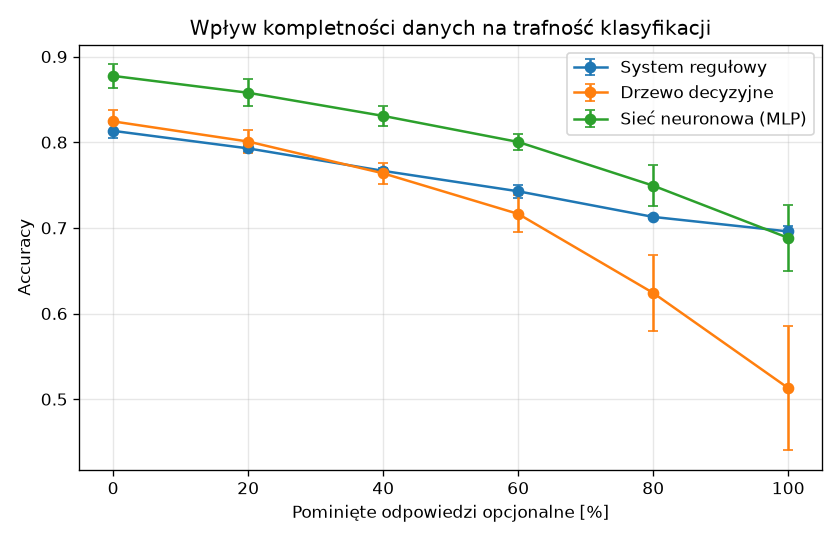
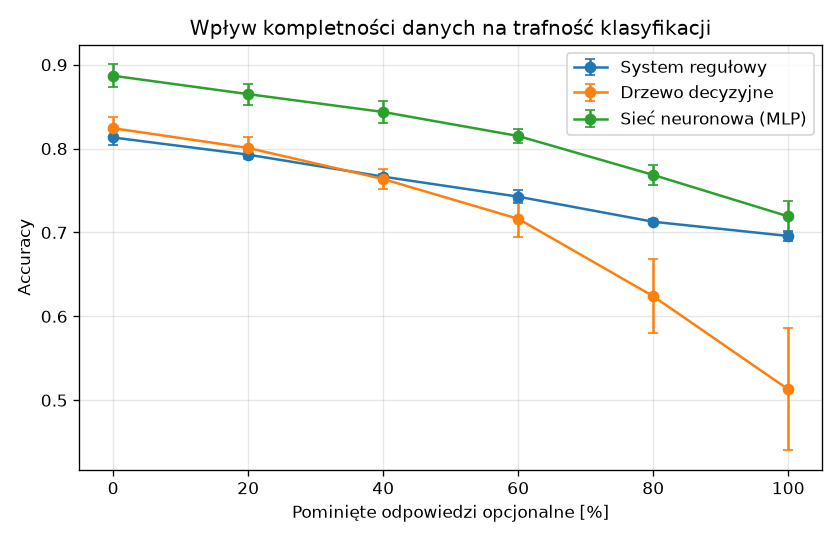
Zmieniono sieć neuronową na dwie warstwy (64, 32) (#26)

diff --git a/app/ml/models.py b/app/ml/models.py
@@ -29,18 +29,18 @@ def build_decision_tree(seed: int = 42) -> Pipeline:
 
 
 def build_mlp(seed: int = 42) -> Pipeline:
-    """Sieć neuronowa (perceptron wielowarstwowy) z jedną warstwą ukrytą 32 neuronów.
+    """Sieć neuronowa (perceptron wielowarstwowy) z dwiema warstwami ukrytymi: 64 i 32 neurony.
 
     StandardScaler sprowadza cechy do podobnej skali, bez czego sieć uczy się źle.
     early_stopping przerywa uczenie, gdy wynik na części walidacyjnej przestaje rosnąć.
-    Rozmiar warstw dobrano walidacją krzyżową (experiments/tuning.py): po dodaniu wskaźnika
-    siły wcześniejsza sieć (32, 16) wypadła poza regułą jednego odchylenia.
+    Rozmiar warstw to najlepszy wynik walidacji krzyżowej (experiments/tuning.py). Reguły
+    jednego odchylenia nie stosujemy tu, bo mniejsza sieć nie staje się przez to czytelna.
     """
     return Pipeline([
         ("imputer", missing_values_imputer()),
         ("scaler", StandardScaler()),
         ("model", MLPClassifier(
-            hidden_layer_sizes=(32,),
+            hidden_layer_sizes=(64, 32),
             max_iter=1000,
             early_stopping=True,
             random_state=seed,

diff --git a/docs/EXPERIMENTS.md b/docs/EXPERIMENTS.md
@@ -43,10 +43,13 @@ mlflow ui                      # przeglądanie przebiegów: http://127.0.0.1:500
 - Miara: F1 makro (średnia ± odchylenie z 5 części).
 - Siatki: drzewo – głębokość {3, 4, 6, 8, 10, bez limitu} × min. próbek w liściu {1, 5, 20, 50};
   sieć – warstwy ukryte {(16), (32), (32, 16), (64, 32)} × regularyzacja L2 `alpha` {0,0001; 0,001; 0,01}.
-- Wybór według **reguły jednego odchylenia standardowego**: spośród ustawień, których wynik jest
-  gorszy od najlepszego o mniej niż jego odchylenie standardowe, wybiera się najprostsze. Różnica
-  mniejsza niż odchylenie mieści się w losowej zmienności, a prostszy model łatwiej zinterpretować
-  i trudniej go przeuczyć.
+- Wybór drzewa według **reguły jednego odchylenia standardowego**: spośród ustawień, których wynik
+  jest gorszy od najlepszego o mniej niż jego odchylenie standardowe, wybiera się najprostsze.
+  Różnica mniejsza niż odchylenie mieści się w losowej zmienności, a płytsze drzewo można odczytać
+  jako zestaw reguł.
+- Wybór sieci według **najlepszego wyniku**: mniejsza sieć nie staje się przez to czytelna (wagi sieci
+  nie dają się interpretować przy żadnym rozmiarze), a koszt większej sieci jest pomijalny
+  (uczenie ok. 0,2 s, klasyfikacja poniżej 1 ms), więc reguła jednego odchylenia nie ma tu uzasadnienia.
 
 Wyniki (`docs/experiments/tuning.csv`, pięć najlepszych ustawień każdego modelu i poprzednie ustawienie sieci):
 
@@ -59,22 +62,29 @@ Wyniki (`docs/experiments/tuning.csv`, pięć najlepszych ustawień każdego mod
 | Drzewo decyzyjne | **głębokość 6, min. 5 w liściu**      | **0,807 ± 0,007** |
 | Sieć neuronowa   | (64, 32), alpha 0,01                  | 0,861 ± 0,014   |
 | Sieć neuronowa   | (64, 32), alpha 0,001                 | 0,861 ± 0,014   |
-| Sieć neuronowa   | (64, 32), alpha 0,0001                | 0,861 ± 0,013   |
-| Sieć neuronowa   | **(32), alpha 0,0001**                | **0,853 ± 0,009** |
+| Sieć neuronowa   | **(64, 32), alpha 0,0001**            | **0,861 ± 0,013** |
+| Sieć neuronowa   | (32), alpha 0,0001                    | 0,853 ± 0,009   |
 | Sieć neuronowa   | (32), alpha 0,001                     | 0,853 ± 0,009   |
 | …                |                                       |                 |
-| Sieć neuronowa   | (32, 16), alpha 0,0001 (poprzednio)   | 0,845 ± 0,035   |
+| Sieć neuronowa   | (32, 16), alpha 0,0001 (pierwsza wersja) | 0,845 ± 0,035 |
 
 **Wnioski:**
 
 1. **Sieć neuronowa:** w pierwszej wersji (bez wskaźnika siły) najlepsza była sieć (32, 16)
-   i tę stosowano. Po dodaniu wskaźnika siły sieć (32, 16) spadła na 12. miejsce (0,845) i wypadła
-   poza granicą jednego odchylenia (próg 0,861 − 0,014 = 0,847). Duże odchylenie (0,035) wynika
-   z jednej z pięciu części walidacji, w której sieć nauczyła się wyraźnie gorzej, czyli z niestabilności
-   uczenia. Zgodnie z regułą wybrano najprostszą sieć w granicy: **jedna warstwa 32 neuronów**.
-   Sieć (64, 32) ma o ok. 0,008 wyższy wynik, ale ma ok. 5 razy więcej wag (3267 wobec 643), a różnica mieści się
-   w odchyleniu. Na zbiorach testowych eksperymentu 1 wszystkie trzy warianty dały zbliżone F1
-   makro: (32) 0,856, (32, 16) 0,860, (64, 32) 0,866 (odchylenia ok. 0,01).
+   i tę stosowano. Po dodaniu wskaźnika siły najlepsze są sieci (64, 32), a (32, 16) spadła na
+   12. miejsce (0,845) z dużym odchyleniem (0,035): w jednej z pięciu części walidacji nauczyła się
+   wyraźnie gorzej, czyli jej uczenie jest niestabilne. Wybrano **(64, 32)**. Siła regularyzacji
+   `alpha` nie ma wpływu (0,8608–0,8614), więc zostaje domyślna wartość 0,0001.
+   Wybór potwierdzają wyniki spoza walidacji (F1 makro, eksperyment 1 i model z `app/ml/train.py`):
+
+   | Sieć      | Średnia z 5 zbiorów testowych | Model wdrażany (`seed = 42`) | Ten model przy 5 pustych odpowiedziach |
+   |-----------|-------------------------------|------------------------------|----------------------------------------|
+   | (32)      | 0,848 ± 0,013                 | 0,829                        | 0,64                                   |
+   | (32, 16)  | 0,855 ± 0,007                 | 0,855                        | 0,69                                   |
+   | (64, 32)  | 0,859 ± 0,009                 | 0,871                        | 0,72                                   |
+
+   Przejściowo stosowano sieć (32) wybraną regułą jednego odchylenia; zrezygnowano z tego, bo
+   prostota sieci nie daje korzyści, a mniejsza sieć wypadała gorzej, zwłaszcza przy brakach danych.
 2. **Drzewo decyzyjne:** najlepsze jest drzewo o głębokości 10 (0,815), ale drzewo o głębokości 6
    mieści się w granicy jednego odchylenia (próg 0,804), a ma do 16 razy mniej liści, więc jego
    reguły da się przeczytać. Pozostaje głębokość 6 i min. 5 próbek w liściu.
@@ -89,13 +99,13 @@ Dane testowe z 20% pominiętych odpowiedzi opcjonalnych (`docs/experiments/compa
 |--------------------|-----------------|-----------------|--------------|---------------------------|
 | System regułowy    | 0,800 ± 0,004   | 0,801 ± 0,005   | —            | 0,02 ms                   |
 | Drzewo decyzyjne   | 0,805 ± 0,009   | 0,804 ± 0,010   | 0,01 s       | 0,43 ms                   |
-| Sieć neuronowa     | 0,857 ± 0,012   | 0,856 ± 0,012   | 0,13 s       | 0,52 ms                   |
+| Sieć neuronowa     | 0,867 ± 0,009   | 0,866 ± 0,008   | 0,17 s       | 0,52 ms                   |
 
 ![Macierze pomyłek](experiments/confusion_matrices.png)
 
 **Obserwacje:**
 
-1. Sieć neuronowa osiąga najwyższą trafność, o ok. 6 punktów procentowych wyższą od systemu
+1. Sieć neuronowa osiąga najwyższą trafność, o ok. 6–7 punktów procentowych wyższą od systemu
    regułowego i od drzewa decyzyjnego. Obie różnice są istotne statystycznie
    (zob. [test McNemara](#istotność-statystyczna-różnic-między-klasyfikatorami)).
 2. Pomyłki o dwa poziomy są skrajnie rzadkie: na ok. 2200 osób początkujących (5 powtórzeń) system
@@ -103,14 +113,13 @@ Dane testowe z 20% pominiętych odpowiedzi opcjonalnych (`docs/experiments/compa
    (zaawansowany uznany za początkującego) dotyczy 0,05–0,2% zaawansowanych. Pozostałe błędy dotyczą
    poziomów sąsiednich. Ma to znaczenie dla bezpieczeństwa: osoba początkująca praktycznie nie
    dostanie planu dla zaawansowanych.
-3. Najtrudniejszy do rozpoznania jest poziom średni (71–76% poprawnych), bo graniczy z oboma
+3. Najtrudniejszy do rozpoznania jest poziom średni (71–79% poprawnych), bo graniczy z oboma
    pozostałymi.
 4. Czas klasyfikacji jednej osoby jest poniżej 1 ms dla wszystkich metod, więc wybór
    klasyfikatora nie wpływa na czas odpowiedzi API.
 5. W porównaniu z pierwszą wersją (bez wskaźnika siły) trafność systemu regułowego wzrosła
-   (0,792 → 0,800), bo reguły od razu korzystają z nowego wskaźnika. Sieć ma wynik nieco niższy
-   (0,866 → 0,857) z powodu zmiany architektury na mniejszą (zob. dobór hiperparametrów); różnica
-   mieści się w odchyleniu.
+   (0,792 → 0,800), bo reguły od razu korzystają z nowego wskaźnika. Sieć ma wynik podobny
+   (0,866 → 0,867), przy nowej architekturze (64, 32).
 
 ## Eksperyment 2: wpływ kompletności danych
 
@@ -121,12 +130,12 @@ i poziom aktywności, a u osób trenujących z ciężarami także wskaźnik sił
 
 | Pominięte odpowiedzi | System regułowy | Drzewo decyzyjne | Sieć neuronowa  |
 |----------------------|-----------------|------------------|-----------------|
-| 0%                   | 0,813 ± 0,009   | 0,824 ± 0,013    | 0,877 ± 0,014   |
-| 20%                  | 0,793 ± 0,004   | 0,801 ± 0,013    | 0,858 ± 0,016   |
-| 40%                  | 0,767 ± 0,004   | 0,764 ± 0,012    | 0,831 ± 0,012   |
-| 60%                  | 0,743 ± 0,008   | 0,716 ± 0,022    | 0,800 ± 0,010   |
-| 80%                  | 0,713 ± 0,003   | 0,624 ± 0,044    | 0,749 ± 0,024   |
-| 100%                 | 0,696 ± 0,006   | 0,513 ± 0,073    | 0,688 ± 0,039   |
+| 0%                   | 0,813 ± 0,009   | 0,824 ± 0,013    | 0,887 ± 0,014   |
+| 20%                  | 0,793 ± 0,004   | 0,801 ± 0,013    | 0,865 ± 0,013   |
+| 40%                  | 0,767 ± 0,004   | 0,764 ± 0,012    | 0,844 ± 0,013   |
+| 60%                  | 0,743 ± 0,008   | 0,716 ± 0,022    | 0,815 ± 0,008   |
+| 80%                  | 0,713 ± 0,003   | 0,624 ± 0,044    | 0,769 ± 0,012   |
+| 100%                 | 0,696 ± 0,006   | 0,513 ± 0,073    | 0,719 ± 0,019   |
 
 ![Wpływ kompletności danych](experiments/completeness.png)
 
@@ -134,19 +143,19 @@ i poziom aktywności, a u osób trenujących z ciężarami także wskaźnik sił
 
 1. Trafność wszystkich metod spada wraz z ubywaniem danych. Wyniki testów sprawności niosą
    istotną informację, której nie zastąpią same dane podstawowe.
-2. Do ok. 80% braków sieć neuronowa pozostaje najlepsza.
-3. System regułowy traci trafność najwolniej i przy samych danych podstawowych (100% braków)
-   ma wynik zbliżony do sieci (0,696 wobec 0,688; różnica nieistotna statystycznie). Reguły pomijają
-   brakujące wskaźniki, a modele ML uczone przy 20% braków trafiają na dane wyraźnie inne niż
-   w czasie uczenia. W pierwszej wersji (bez wskaźnika siły) reguły były przy 100% braków istotnie
-   lepsze od sieci (0,675 wobec 0,648); wskaźnik siły zmniejszył tę różnicę, bo u osób trenujących
-   zostaje mocna cecha nawet bez testów.
+2. Sieć neuronowa jest najlepsza przy każdej kompletności danych.
+3. System regułowy traci trafność najwolniej (z 0,813 do 0,696), ale przy samych danych
+   podstawowych sieć jest od niego lepsza (0,719 wobec 0,696; różnica istotna statystycznie).
+   W pierwszej wersji (bez wskaźnika siły, sieć (32, 16)) było odwrotnie: reguły przy 100% braków
+   były istotnie lepsze od sieci (0,675 wobec 0,648). Zmianę dały razem wskaźnik siły (u osób
+   trenujących zostaje mocna cecha nawet bez testów) i większa sieć, która stabilniej uczy się
+   na danych z brakami.
 4. Drzewo decyzyjne jest najbardziej wrażliwe na braki: przy 100% braków trafność spada do
    0,51 i silnie zależy od losowania (odchylenie 0,073). Gdy brakuje cechy z górnych podziałów
    drzewa, wszystkie osoby trafiają do gałęzi wybranej przez wartość wstawioną (medianę).
 
-**Wniosek projektowy:** przy niskiej kompletności danych sieć i reguły dają podobne wyniki, a drzewo
-jest wyraźnie gorsze. Aplikacja dobiera klasyfikator do liczby pustych odpowiedzi według oceny
+**Wniosek projektowy:** sieć jest najtrafniejsza także przy niskiej kompletności danych, reguły
+tracą trafność najwolniej, a drzewo jest wyraźnie gorsze. Aplikacja dobiera klasyfikator do liczby pustych odpowiedzi według oceny
 z uczenia ([ML.md](ML.md#uczenie-i-wyniki-wstępne)) i zwraca kompletność danych
 (`data_completeness`) razem z wynikiem, żeby użytkownik wiedział, jak wiarygodny jest wynik.
 
@@ -178,15 +187,16 @@ Wyniki (`docs/experiments/significance.csv`). W komórce: metoda lepsza w danej 
 | 40%                  | sieć, *p* < 0,001     | sieć, *p* < 0,001     | – (*p* = 0,67)          |
 | 60%                  | sieć, *p* < 0,001     | sieć, *p* < 0,001     | reguły, *p* < 0,001     |
 | 80%                  | sieć, *p* < 0,001     | sieć, *p* < 0,001     | reguły, *p* < 0,001     |
-| 100%                 | – (*p* = 0,24)        | sieć, *p* < 0,001     | reguły, *p* < 0,001     |
+| 100%                 | sieć, *p* < 0,001     | sieć, *p* < 0,001     | reguły, *p* < 0,001     |
 
 **Obserwacje:**
 
 1. Przewaga sieci neuronowej nad obiema pozostałymi metodami jest istotna statystycznie przy
-   każdej kompletności danych poza samymi danymi podstawowymi.
-2. Przy samych danych podstawowych (100% braków) sieć i system regułowy **nie różnią się**
-   istotnie (*p* = 0,24). W pierwszej wersji, bez wskaźnika siły, reguły były tu istotnie lepsze
-   (*p* < 0,001).
+   każdej kompletności danych, także przy samych danych podstawowych.
+2. Przy samych danych podstawowych (100% braków) przewaga sieci nad regułami jest najmniejsza
+   (773 wobec 627 osób sklasyfikowanych poprawnie tylko przez jedną z metod), ale istotna
+   (*p* < 0,001). W pierwszej wersji, bez wskaźnika siły i z siecią (32, 16), reguły były tu
+   istotnie lepsze od sieci.
 3. Przy pełnych i typowych danych (0–40% braków) drzewo decyzyjne **nie jest** istotnie lepsze od
    systemu regułowego. Różnica ok. 0,5 p.p. z eksperymentu 1 mieści się w granicach przypadku, więc
    drzewo nie daje przewagi trafności, a jego zaletą pozostaje tylko interpretowalność.
@@ -275,13 +285,13 @@ Wyniki: średnia z 5 ziaren (`docs/experiments/plan_quality.csv`).
 |----------------------|------------------|------------------------------|-----------|----------|----------------------------------|----------------------|
 | 0%                   | System regułowy  | 0,813                        | 0,129     | 0,058    | 0,112                            | 0,931                |
 | 0%                   | Drzewo decyzyjne | 0,824                        | 0,085     | 0,091    | 0,069                            | 0,938                |
-| 0%                   | Sieć neuronowa   | 0,877                        | 0,059     | 0,064    | 0,048                            | 0,956                |
+| 0%                   | Sieć neuronowa   | 0,887                        | 0,057     | 0,056    | 0,048                            | 0,960                |
 | 60%                  | System regułowy  | 0,744                        | 0,120     | 0,136    | 0,099                            | 0,905                |
 | 60%                  | Drzewo decyzyjne | 0,710                        | 0,169     | 0,121    | 0,150                            | 0,892                |
-| 60%                  | Sieć neuronowa   | 0,802                        | 0,091     | 0,108    | 0,074                            | 0,928                |
+| 60%                  | Sieć neuronowa   | 0,817                        | 0,084     | 0,099    | 0,070                            | 0,934                |
 | 100%                 | System regułowy  | 0,696                        | 0,072     | 0,232    | 0,057                            | 0,883                |
 | 100%                 | Drzewo decyzyjne | 0,513                        | 0,316     | 0,172    | 0,290                            | 0,808                |
-| 100%                 | Sieć neuronowa   | 0,688                        | 0,146     | 0,165    | 0,124                            | 0,882                |
+| 100%                 | Sieć neuronowa   | 0,719                        | 0,127     | 0,154    | 0,110                            | 0,897                |
 
 We wszystkich przebiegach liczba ćwiczeń przeciwwskazanych wyniosła **0**.
 
@@ -293,23 +303,24 @@ We wszystkich przebiegach liczba ćwiczeń przeciwwskazanych wyniosła **0**.
    obowiązkowym, a filtr przeciwwskazań działa niezależnie od klasyfikatora, więc żaden plan nie
    zawierał ćwiczenia przeciwwskazanego, nawet przy błędnie wyznaczonym poziomie.
 2. **Błędny poziom zmienia plan w niewielkim stopniu.** Nawet przy samych danych podstawowych
-   plany mają 81–88% wspólnych ćwiczeń z planem wzorcowym. Ćwiczenia dla poziomu niższego są
+   plany mają 81–90% wspólnych ćwiczeń z planem wzorcowym. Ćwiczenia dla poziomu niższego są
    dostępne także na wyższych poziomach, więc pomyłka o jeden poziom zmienia tylko część ćwiczeń
    (i liczbę serii u początkujących).
 3. **Kierunek błędu zależy od metody.** System regułowy przy brakach danych częściej zaniża poziom
    (przy 100% braków 23% planów za łatwych i tylko 6% z ćwiczeniem za trudnym). Sieć przy 100%
-   braków myli się w obie strony (15% za trudnych, 17% za łatwych), a drzewo decyzyjne aż u 29% osób
+   braków myli się w obie strony (13% za trudnych, 15% za łatwych), a drzewo decyzyjne aż u 29% osób
    daje ćwiczenie trudniejsze niż ich poziom. Z punktu widzenia bezpieczeństwa plan za łatwy jest
    lepszy niż za trudny.
 4. Przy pełnych danych system regułowy częściej zawyża poziom (13% planów za trudnych) niż modele
    ML (6–9%). Progi reguł są więc dla tej populacji zbyt łagodne, co wskazuje kierunek ich korekty.
-5. Do ok. 60% braków sieć neuronowa daje plany najbliższe wzorcowym i najrzadziej za trudne.
+5. Przy każdej kompletności sieć neuronowa daje plany najczęściej dopasowane do prawdziwego
+   poziomu; do ok. 60% braków także najrzadziej za trudne.
 
-**Wniosek projektowy:** przy kompletnych danych najlepsze plany daje sieć neuronowa. Przy samych
-danych podstawowych sieć i reguły mają podobną trafność, ale reguły mylą się „w bezpieczną stronę”
-(6% planów z za trudnym ćwiczeniem wobec 12% u sieci). To argument, by przy bardzo niekompletnych
-danych brać pod uwagę nie tylko trafność, ale i kierunek błędu, oraz by informować użytkownika
-o niskiej kompletności danych.
+**Wniosek projektowy:** najlepiej dopasowane plany daje sieć neuronowa. Przy samych danych
+podstawowych sieć częściej trafia w poziom (72% wobec 70% u reguł), ale reguły mylą się
+„w bezpieczną stronę” (6% planów z za trudnym ćwiczeniem wobec 11% u sieci). Przy bardzo
+niekompletnych danych warto więc brać pod uwagę nie tylko trafność, ale i kierunek błędu, oraz
+informować użytkownika o niskiej kompletności danych.
 
 ## Eksperyment 5: wskaźnik siły u osób trenujących z ciężarami
 
@@ -327,23 +338,23 @@ Wyniki: F1 makro, średnia z 5 ziaren (`docs/experiments/strength.csv`).
 
 | Pominięte odpowiedzi | Reguły bez → z | Drzewo bez → z | Sieć bez → z |
 |----------------------|----------------|----------------|--------------|
-| 0%                   | 0,781 → 0,819  | 0,815 → 0,805  | 0,874 → 0,865 |
-| 20%                  | 0,771 → 0,788  | 0,781 → 0,780  | 0,855 → 0,847 |
-| 40%                  | 0,752 → 0,780  | 0,761 → 0,766  | 0,822 → 0,824 |
-| 60%                  | 0,721 → 0,763  | 0,709 → 0,731  | 0,781 → 0,788 |
-| 80%                  | 0,668 → 0,730  | 0,607 → 0,651  | 0,724 → 0,757 |
-| 100%                 | 0,624 → 0,664  | 0,412 → 0,508  | 0,628 → 0,701 |
+| 0%                   | 0,781 → 0,819  | 0,815 → 0,805  | 0,875 → 0,880 |
+| 20%                  | 0,771 → 0,788  | 0,781 → 0,780  | 0,852 → 0,856 |
+| 40%                  | 0,752 → 0,780  | 0,761 → 0,766  | 0,830 → 0,840 |
+| 60%                  | 0,721 → 0,763  | 0,709 → 0,731  | 0,791 → 0,818 |
+| 80%                  | 0,668 → 0,730  | 0,607 → 0,651  | 0,721 → 0,791 |
+| 100%                 | 0,624 → 0,664  | 0,412 → 0,508  | 0,643 → 0,745 |
 
 ![Wskaźnik siły](experiments/strength.png)
 
 **Obserwacje:**
 
 1. **Wskaźnik siły pomaga najbardziej, gdy brakuje testów.** Przy samych danych podstawowych
-   F1 sieci rośnie z 0,628 do 0,701, drzewa z 0,412 do 0,508, a reguł z 0,624 do 0,664. Osoba,
+   F1 sieci rośnie z 0,643 do 0,745, drzewa z 0,412 do 0,508, a reguł z 0,624 do 0,664. Osoba,
    która nie wykona testów, a poda serie z ciężarami, jest oceniana wyraźnie trafniej.
-2. **Przy kompletnych testach modele ML nie zyskują.** Przy 0–20% braków różnice sieci i drzewa
-   (−0,01) mieszczą się w odchyleniu (ok. 0,015–0,02): pompki, przysiady i deska niosą już tę samą
-   informację o sprawności, a dodatkowa cecha nieco utrudnia uczenie przy ok. 1/3 osób z wartością.
+2. **Przy kompletnych testach modele ML praktycznie nie zyskują.** Przy 0–20% braków różnice
+   sieci (+0,005) i drzewa (−0,01) mieszczą się w odchyleniu (ok. 0,01–0,02): pompki, przysiady
+   i deska niosą już tę samą informację o sprawności.
 3. **System regułowy zyskuje zawsze** (+0,02–0,06), bo dodatkowy wskaźnik z dobrze dobranymi
    progami uśrednia błędy pojedynczych testów.
 4. Wynik zależy od założeń generatora: związek wskaźnika siły z prawdziwą sprawnością został

diff --git a/docs/ML.md b/docs/ML.md
@@ -103,9 +103,9 @@ więc system regułowy nie ma z góry zagwarantowanej trafności.
 medianą z dodaniem kolumn 0/1 oznaczających brak (`SimpleImputer(add_indicator=True)`).
 
 - **Drzewo decyzyjne:** głębokość maks. 6, min. 5 próbek w liściu (ograniczenie przeuczenia).
-- **Sieć neuronowa (MLP):** standaryzacja cech, jedna warstwa ukryta 32 neuronów,
+- **Sieć neuronowa (MLP):** standaryzacja cech, warstwy ukryte 64 i 32 neurony,
   wczesne zatrzymanie uczenia (`early_stopping`). Do czasu dodania wskaźnika siły stosowano
-  dwie warstwy (32 i 16 neuronów); zmianę opisuje dobór hiperparametrów.
+  warstwy 32 i 16 neuronów; zmianę opisuje dobór hiperparametrów.
 
 Ustawienia dobrano walidacją krzyżową (`experiments/tuning.py`, opis w
 [EXPERIMENTS.md](EXPERIMENTS.md#dobór-hiperparametrów)).
@@ -119,11 +119,10 @@ podział 75% / 25% ze stratyfikacją, `seed = 42`.
 |--------------------|----------|----------|
 | System regułowy    | 0,804    | 0,802    |
 | Drzewo decyzyjne   | 0,816    | 0,812    |
-| Sieć neuronowa     | 0,834    | 0,829    |
+| Sieć neuronowa     | 0,874    | 0,871    |
 
-Wynik sieci na tym jednym podziale jest niższy niż średnia z pięciu powtórzeń eksperymentu 1
-(F1 makro 0,856 ± 0,012). Pojedynczy podział jest bardziej zależny od losowania, dlatego
-porównanie metod opiera się na eksperymentach z wieloma powtórzeniami.
+Wyniki z jednego podziału zależą od losowania, dlatego porównanie metod opiera się na
+eksperymentach z wieloma powtórzeniami ([EXPERIMENTS.md](EXPERIMENTS.md)).
 
 Szczegółowe porównanie (macierze pomyłek, wpływ kompletności danych, wiele powtórzeń):
 [EXPERIMENTS.md](EXPERIMENTS.md).
@@ -139,20 +138,18 @@ Wybór i metryki trafiają do `app/ml/artifacts/best_classifier.json`.
 
 | Puste odpowiedzi | System regułowy | Drzewo decyzyjne | Sieć neuronowa | Wybrany  |
 |------------------|-----------------|------------------|----------------|----------|
-| 0                | 0,809 ± 0,014   | 0,825 ± 0,010    | 0,865 ± 0,013  | sieć     |
-| 1                | 0,794 ± 0,008   | 0,814 ± 0,009    | 0,854 ± 0,013  | sieć     |
-| 2                | 0,765 ± 0,011   | 0,793 ± 0,014    | 0,833 ± 0,008  | sieć     |
-| 3                | 0,722 ± 0,016   | 0,741 ± 0,026    | 0,803 ± 0,015  | sieć     |
-| 4                | 0,695 ± 0,006   | 0,646 ± 0,067    | 0,768 ± 0,008  | sieć     |
-| 5                | 0,675 ± 0,003   | 0,452 ± 0,194    | 0,678 ± 0,036  | sieć     |
+| 0                | 0,809 ± 0,014   | 0,825 ± 0,010    | 0,873 ± 0,004  | sieć     |
+| 1                | 0,794 ± 0,008   | 0,814 ± 0,009    | 0,865 ± 0,004  | sieć     |
+| 2                | 0,765 ± 0,011   | 0,793 ± 0,014    | 0,850 ± 0,007  | sieć     |
+| 3                | 0,722 ± 0,016   | 0,741 ± 0,026    | 0,815 ± 0,012  | sieć     |
+| 4                | 0,695 ± 0,006   | 0,646 ± 0,067    | 0,773 ± 0,005  | sieć     |
+| 5                | 0,675 ± 0,003   | 0,452 ± 0,194    | 0,702 ± 0,013  | sieć     |
 
-Przy samych danych podstawowych (5 pustych) system regułowy i sieć różnią się nieznacznie
-(0,675 wobec 0,678), ale reguły dają wynik stabilniejszy (mniejsze odchylenie). W pierwszej
-wersji, bez wskaźnika siły, przy 5 pustych odpowiedziach wybierany był system regułowy
-(0,654 wobec 0,650). Wskaźnik siły podniósł wynik sieci u osób trenujących z ciężarami
-(eksperyment 5 w [EXPERIMENTS.md](EXPERIMENTS.md)), więc teraz sieć jest wybierana dla każdej
-liczby braków. Mechanizm doboru pozostaje: przełączy klasyfikator, jeśli po zmianie danych lub
-modeli w ocenie wygra inny.
+Przy obecnych danych i modelach sieć jest najlepsza przy każdej liczbie braków, także przy samych
+danych podstawowych (0,702 wobec 0,675 reguł). W pierwszej wersji, bez wskaźnika siły i z siecią
+(32, 16), przy 5 pustych odpowiedziach wybierany był system regułowy (0,654 wobec 0,650).
+Mechanizm doboru pozostaje: przełączy klasyfikator, jeśli po zmianie danych lub modeli w ocenie
+wygra inny.
 
 Aplikacja liczy puste odpowiedzi w profilu użytkownika i klasyfikuje go klasyfikatorem wybranym
 dla tej liczby. Gdy pliku nie ma (modele niewytrenowane), używany jest system regułowy.
